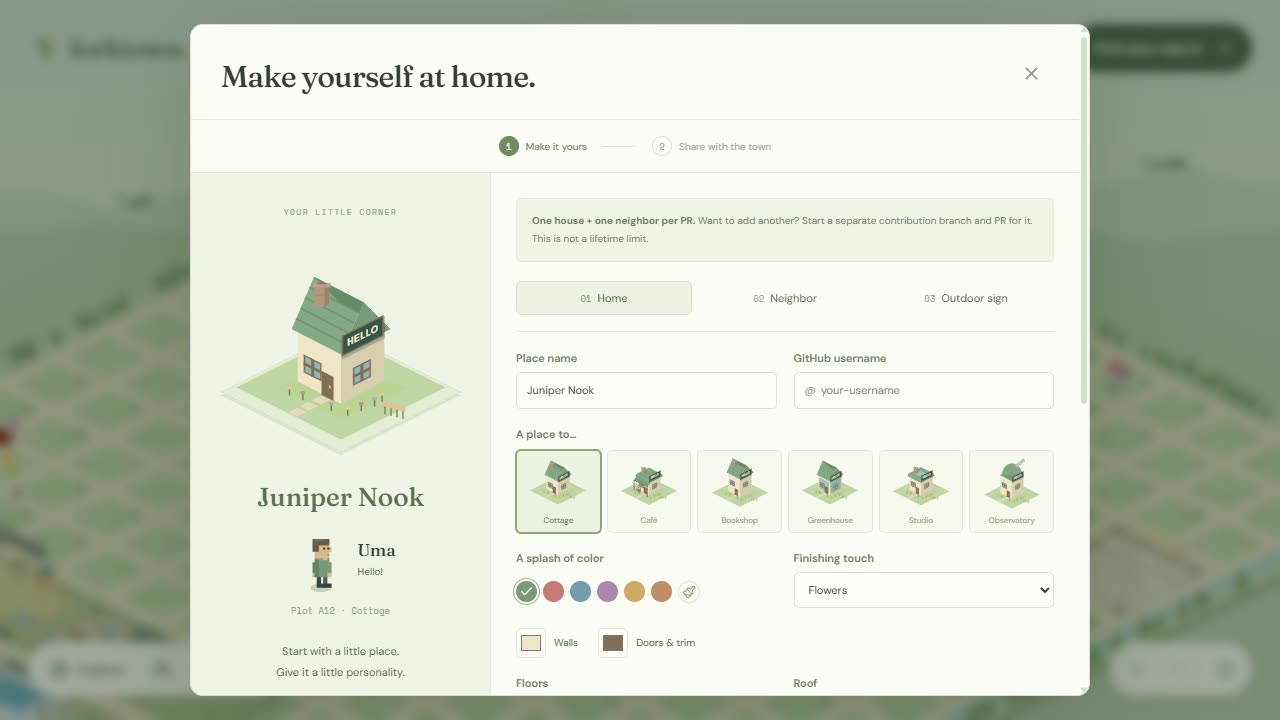
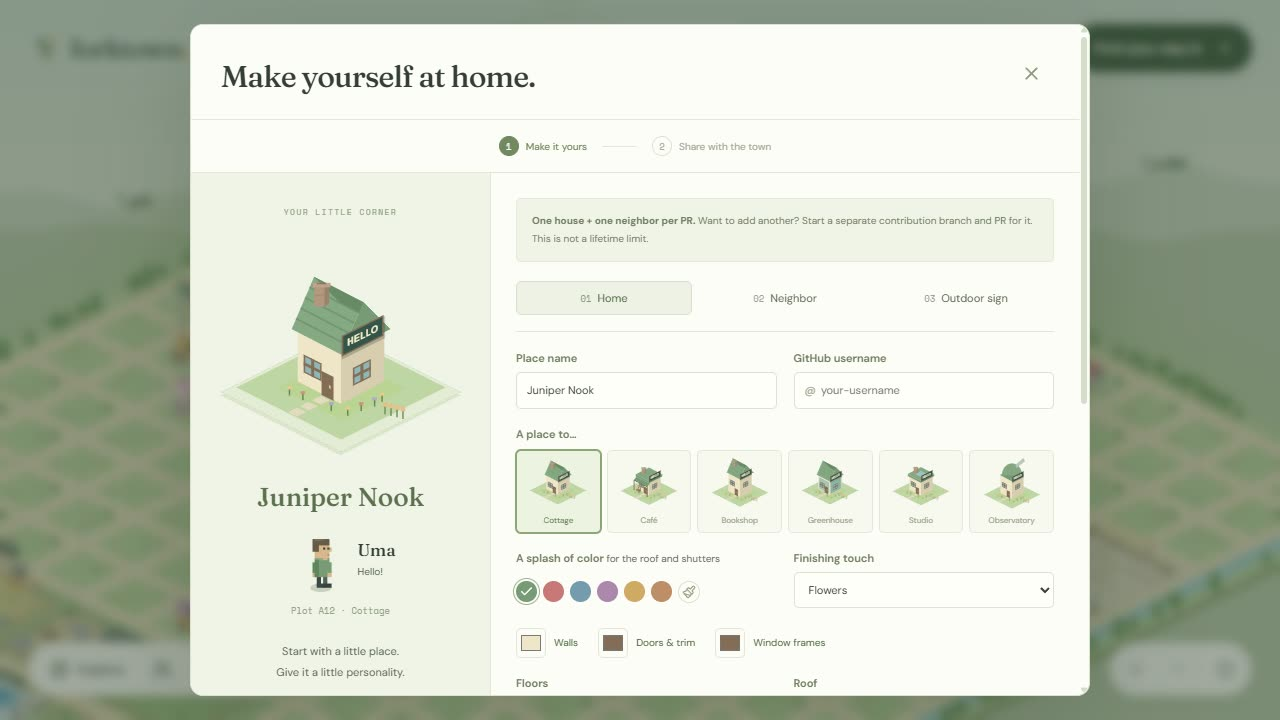
Let houses set a window frame color (#174)
House files can add an optional design.windowsColor that paints the
window frames, the balcony door included. Without it the frames keep
matching the trim, so every house in town looks exactly as before. The
glass stays the town's, so lit windows still glow at night, and the
shutters keep the top-level color.

The builder gets a Window frames picker that follows the trim until a
different color is picked, and a Match trim button that takes a picked
color back out. A cancelled pick, or the trim's own color, keeps the
frames following the trim, so a house file only carries windowsColor
when someone chose one. The color picker now says it paints the roof
and the shutters, and a roofColor written into design hears that the
roof takes the top-level "color" instead of "Unrecognized keys".

CONTRIBUTING.md, the builder's JSON guide and PROJECT_GUIDE.md describe
the field, and the README's builder screenshot shows the new picker.

diff --git a/src/components/Customization.tsx b/src/components/Customization.tsx
@@ -1,3 +1,4 @@
+import { useRef, type Ref } from 'react';
 import type { Place } from '../lib/schema';
 import { compileSign, SIGN_EXAMPLE } from '../lib/sign';
 import SignPreview from './SignPreview';
@@ -30,14 +31,17 @@ function Color({
   label,
   value,
   onChange,
+  ref,
 }: {
   label: string;
   value: string;
   onChange: (value: string) => void;
+  ref?: Ref<HTMLInputElement>;
 }) {
   return (
     <label className="paint-field">
       <input
+        ref={ref}
         type="color"
         aria-label={label}
         value={value}
@@ -54,13 +58,49 @@ export function HomeDetails({
   draft: Place;
   update: (value: Place['design']) => void;
 }) {
+  const frames = useRef<HTMLInputElement>(null);
   const change = <K extends keyof Place['design']>(key: K, value: Place['design'][K]) =>
     update({ ...draft.design, [key]: value });
+  const followTrim = () => {
+    const { windowsColor, ...design } = draft.design;
+    update(design);
+  };
+  // The trim's own colour, in any case, keeps the frames following the trim. A cancelled pick
+  // sends back the colour the picker opened with, and that must not save a copy of the trim.
+  const pickFrames = (color: string) => {
+    if (color.toLowerCase() === draft.design.trim.toLowerCase()) followTrim();
+    else change('windowsColor', color);
+  };
+  // The button goes away once pressed, so focus on it moves to the picker it reset. Only then:
+  // Safari never focuses a tapped button, and focusing the picker on an iPhone may open it.
+  const matchTrim = (button: HTMLButtonElement) => {
+    followTrim();
+    if (document.activeElement === button) frames.current?.focus();
+  };
   return (
     <div className="customization-fields">
       <div className="paint-row">
         <Color label="Walls" value={draft.design.wall} onChange={(v) => change('wall', v)} />
         <Color label="Doors & trim" value={draft.design.trim} onChange={(v) => change('trim', v)} />
+        {/* Until it is picked, the window frames match the trim and the file leaves it out.
+            Match trim goes back to that. */}
+        <span className="frames-field">
+          <Color
+            ref={frames}
+            label="Window frames"
+            value={draft.design.windowsColor ?? draft.design.trim}
+            onChange={pickFrames}
+          />
+          {draft.design.windowsColor && (
+            <button
+              type="button"
+              className="text-button"
+              onClick={(e) => matchTrim(e.currentTarget)}
+            >
+              Match trim
+            </button>
+          )}
+        </span>
       </div>
       <div className="field-row">
         <label className="field">

diff --git a/src/lib/schema.ts b/src/lib/schema.ts
@@ -48,6 +48,8 @@ export const designSchema = z
     floors: z.union([z.literal(1), z.literal(2), z.literal(3)]),
     roof: z.enum(['classic', 'flat', 'gable']),
     windows: z.enum(['cross', 'round', 'shutters']),
+    // The window frames' paint. Without it they match the trim.
+    windowsColor: color.optional(),
     garden: z.enum(['wildflowers', 'paving', 'vegetables']),
     feature: z.enum(['none', 'porch', 'balcony']),
   })
@@ -262,6 +264,16 @@ export function plotProblem(plot: string, taken: ReadonlySet<string>): string | 
   return `Plot ${plot} is reserved for ${place}, a public place. ${open.length ? `Pick an open plot such as ${orList(open)}.` : OPEN_PLOTS_COPY.full}`;
 }
 
+// A roof color written into the design, like "roofColor". The roof takes the top-level "color".
+const ROOF_COLOR_KEY = /^roof[-_]?colou?r$/i;
+
+/** What a house file hears for a roof color in its design: where the roof's color goes instead. */
+function roofColorProblem(data: unknown, key: string) {
+  const value = color.safeParse((data as { design?: Record<string, unknown> }).design?.[key]);
+  const fix = value.success ? `Set "color" to "${value.data}"` : 'Set your roof color there';
+  return `The roof takes its color from the top-level "color". ${fix} and remove "${key}".`;
+}
+
 export function validatePlaces(entries: PlaceEntry[]): ValidationResult {
   const errors: string[] = [];
   const places: Place[] = [];
@@ -289,6 +301,18 @@ export function validatePlaces(entries: PlaceEntry[]): ValidationResult {
         if (path === 'plot' && plotMessage) {
           if (!plotTold) errors.push(`${file} → plot: ${plotMessage}`);
           plotTold = true;
+        } else if (
+          path === 'design' &&
+          issue.code === 'unrecognized_keys' &&
+          issue.keys.some((key) => ROOF_COLOR_KEY.test(key))
+        ) {
+          // One line for each key, so a roof color is told where it belongs.
+          for (const key of issue.keys)
+            errors.push(
+              ROOF_COLOR_KEY.test(key)
+                ? `${file} → design.${key}: ${roofColorProblem(data, key)}`
+                : `${file} → design: Unrecognized key: "${key}"`,
+            );
         } else errors.push(`${file} → ${path}: ${issue.message}`);
       }
       continue;

diff --git a/src/city/houses.ts b/src/city/houses.ts
@@ -664,7 +664,8 @@ export function drawHouse(
     { height: h } = houseBounds(place);
   const roof = tint(place.color, night ? -35 : 0),
     wall = tint(d.wall, night ? -55 : 0),
-    trim = tint(d.trim, night ? -25 : 0);
+    trim = tint(d.trim, night ? -25 : 0),
+    frame = d.windowsColor ? tint(d.windowsColor, night ? -25 : 0) : trim;
   const { seed, awakeInside, windowsLit, snow, onDoorstep, ripe } = houseMoment(place, night, life);
   const snowTop = pick(SNOW.top, night),
     snowShade = pick(SNOW.shade, night);
@@ -827,16 +828,16 @@ export function drawHouse(
           ctx.fillStyle = glass;
           ctx.fill();
           silhouette(-2, top + 3);
-          ctx.strokeStyle = trim;
+          ctx.strokeStyle = frame;
           ctx.lineWidth = 2;
           ctx.stroke();
-          box(ctx, 5.5, top + 1, 1, bottom - top - 1, trim);
+          box(ctx, 5.5, top + 1, 1, bottom - top - 1, frame);
         } else {
-          box(ctx, 0, top, 12, 15, trim);
+          box(ctx, 0, top, 12, 15, frame);
           box(ctx, 1, top + 1, 10, 14, glass);
           silhouette(-2, top + 3);
-          box(ctx, 5, top, 2, 15, trim);
-          if (d.windows === 'cross') box(ctx, 0, top + 5, 12, 1, trim);
+          box(ctx, 5, top, 2, 15, frame);
+          if (d.windows === 'cross') box(ctx, 0, top + 5, 12, 1, frame);
           else {
             box(ctx, -4, top - 1, 3, 17, roof);
             box(ctx, 13, top - 1, 3, 17, roof);
@@ -848,15 +849,15 @@ export function drawHouse(
         ctx.fillStyle = windowsLit ? '#F1D68F' : night ? '#4E6461' : '#8EBCBF';
         ctx.fill();
         silhouette();
-        ctx.strokeStyle = trim;
+        ctx.strokeStyle = frame;
         ctx.lineWidth = 2;
         ctx.stroke();
       } else {
-        box(ctx, 0, 0, 12, 12, trim);
+        box(ctx, 0, 0, 12, 12, frame);
         box(ctx, 1, 1, 10, 10, glass);
         silhouette();
-        box(ctx, 5, 0, 2, 12, trim);
-        if (d.windows === 'cross') box(ctx, 0, 5, 12, 2, trim);
+        box(ctx, 5, 0, 2, 12, frame);
+        if (d.windows === 'cross') box(ctx, 0, 5, 12, 2, frame);
         else {
           box(ctx, -4, -1, 3, 14, roof);
           box(ctx, 13, -1, 3, 14, roof);

diff --git a/src/components/Contribute.tsx b/src/components/Contribute.tsx
@@ -396,7 +396,9 @@ const Contribute = memo(function Contribute({
               </fieldset>
               <div className="field-row">
                 <fieldset className="color-picker">
-                  <legend>A splash of color</legend>
+                  <legend>
+                    A splash of color <small>for the roof and shutters</small>
+                  </legend>
                   <div>
                     {COLORS.map((color) => (
                       <button
@@ -415,7 +417,7 @@ const Contribute = memo(function Contribute({
                       <Paintbrush size={14} />
                       <input
                         type="color"
-                        aria-label="Custom building color"
+                        aria-label="Custom roof color"
                         value={draft.color}
                         onChange={(event) => update('color', event.target.value)}
                       />

diff --git a/src/components/JsonGuide.tsx b/src/components/JsonGuide.tsx
@@ -23,7 +23,10 @@ export default function JsonGuide() {
         <dt>building / color / decoration</dt>
         <dd>The building family, roof color, and item in your garden.</dd>
         <dt>design</dt>
-        <dd>Wall and trim colors, floors, roof, windows, garden, and extra house details.</dd>
+        <dd>
+          Wall, trim and window frame colors, floors, roof, windows, garden, and extra house
+          details.
+        </dd>
         <dt>resident / routine</dt>
         <dd>
           Your one neighbor's appearance, greeting, and daily activities. At night, choose sleep or

diff --git a/src/styles.css b/src/styles.css
@@ -341,13 +341,23 @@
     background: var(--surface);
     cursor: pointer;
   }
+  .frames-field {
+    display: flex;
+    align-items: center;
+    gap: 8px;
+  }
+  .frames-field .text-button {
+    min-height: 30px;
+    font-size: 10px;
+  }
   .panel-intro,
   .sign-help {
     font-size: 11px;
     line-height: 1.8;
     color: var(--muted);
   }
-  .field small {
+  .field small,
+  .color-picker legend small {
     font-size: 10px;
     font-weight: 400;
     color: var(--muted);

diff --git a/CONTRIBUTING.md b/CONTRIBUTING.md
@@ -73,7 +73,7 @@ Each pull request may add **at most one new house**, with **one neighbor** in th
 
 The eight basic fields above still work: omitted `design`, `resident`, and `sign` objects get friendly defaults. Use the builder or `examples/living-place.json` when you want to customize them. If you include an object, include its required fields; `resident.figure` and `resident.routine.night` can be omitted.
 
-- **Home:** `design` sets wall and trim hex colors, 1 or 2 floors (homes already built with three keep them), a `classic` / `flat` / `gable` roof, `cross` / `round` / `shutters` windows, `wildflowers` / `paving` / `vegetables` garden, and an optional `porch` or `balcony` feature (`none` is also valid). The top-level `color` sets the roof color. `classic` uses the building family's original roof.
+- **Home:** `design` sets wall and trim hex colors, 1 or 2 floors (homes already built with three keep them), a `classic` / `flat` / `gable` roof, `cross` / `round` / `shutters` windows, `wildflowers` / `paving` / `vegetables` garden, and an optional `porch` or `balcony` feature (`none` is also valid). An optional `windowsColor` paints the window frames; without it they match the trim. The glass is the town's, so it can light up at night. The top-level `color` paints the roof and the shutters, so a house file has no `roofColor`. `classic` uses the building family's original roof. Update older forks before adding `windowsColor`: older validators reject it.
 - **Neighbor:** `resident` sets a name (2-24 characters), a `male` / `female` figure, skin/hair/outfit hex colors, `none` / `hat` / `glasses` accessory, and a greeting (1-40 characters). Choose **Figure** in the Neighbor tab, or add `"figure": "female"` inside your JSON's `resident` object. Omitted `figure` uses the original male artwork, so existing houses and saved drafts keep their appearance. Both figures support every accessory and daily activity. Update older forks before adding this field: older validators reject it.
 - **Routine:** morning (06:00-12:00), afternoon (12:00-18:00), and evening (18:00-22:00) each choose `stroll`, `work`, or `home`. The last two mean working and relaxing at home. Night (22:00-06:00) chooses `sleep` (the default) or `stroll` (Be a night owl). Up to eight night owls can join the Little Stage's 23:30–02:30 party, including cinema guests who have time to walk over afterward. Arrivals and departures vary. Free time includes moonlit loops round the block and spells on their own bench, porch or front step, with a consistent individual bedtime between midnight and 05:00. No meetings, destinations, or other residents' names to configure.
 - **Outdoor sign:** choose `none`, `text`, or `html`. Text signs have up to 18 characters plus `color` and `background`. HTML artwork uses the small language described in [sign artwork](docs/SIGN_ARTWORK.md).

diff --git a/docs/PROJECT_GUIDE.md b/docs/PROJECT_GUIDE.md
@@ -12,7 +12,7 @@ Starter places use `creator: "forktown"` as a project credit, not a real communi
 - Wildflower patches on open plots, small daytime flocks, and chimney smoke and evening window silhouettes when neighbors are home. Ambient movement pauses with the town.
 - A daily 08:00–12:30 duck walk: a mother and five ducklings leave the river, follow the street beside the Lunch Green to the first houses, turn around, and return to the water. The last duckling briefly dawdles and catches up. Nearby wandering residents who see them ahead or beside them stop for four seconds, turn toward the ducks, and show a heart bubble before resuming their walk. The family appears in both town and live views, without needing resident participation.
 - Mouse and touch panning, zoom buttons, scroll zoom, and keyboard map controls.
-- Custom floors, roof shapes, wall and trim colors, window styles, gardens, porches, and balconies.
+- Custom floors, roof shapes, wall, trim and window frame colors, window styles, gardens, porches, and balconies.
 - Residents with male and female figures, names, outfits, accessories, greetings, and simple day and night routines. Existing JSON files keep the original figure when `resident.figure` is omitted.
 - Strolls round the block from each neighbor's own doorstep, with four directional walking views, distance-based footsteps, lanes that keep neighbors walking together side by side, occasional neighbor greetings, bedtime, and a camera that follows a resident.
 - Life at home: neighbors step out of their own front door as it swings open, fading in on the threshold, and spend spells in their garden between walks and outings, perched on the bench or a porch chair, sitting on the front step, reading under the tree, watering the flowers or the beds, or sweeping a paved path. They go back in the same way, the door opening ahead of them.
